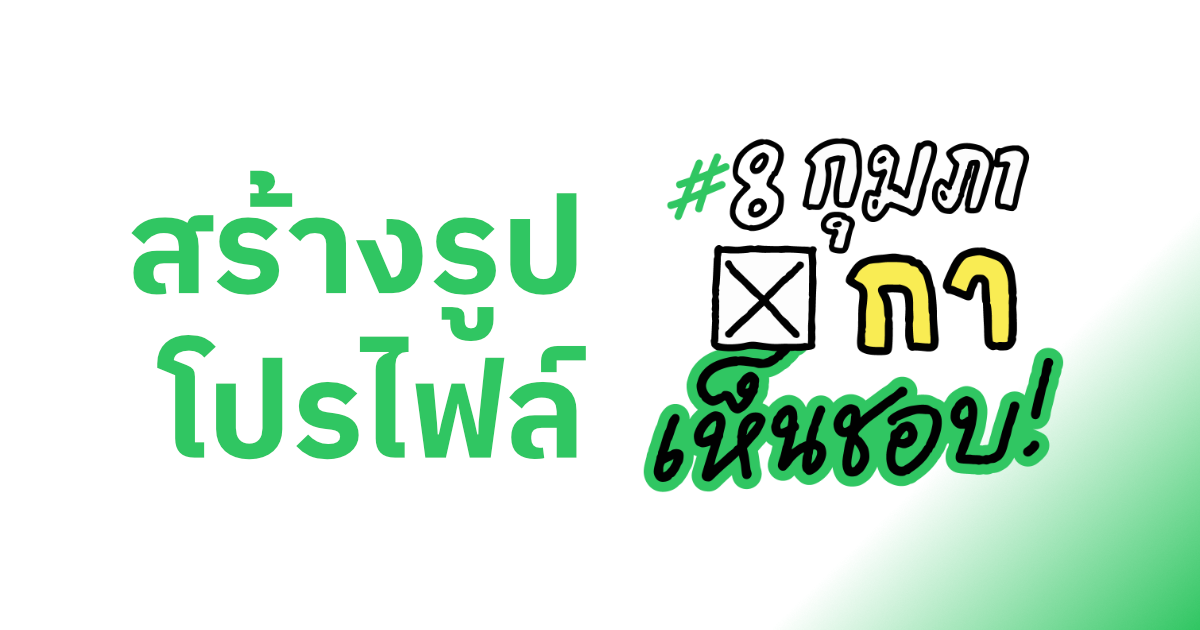
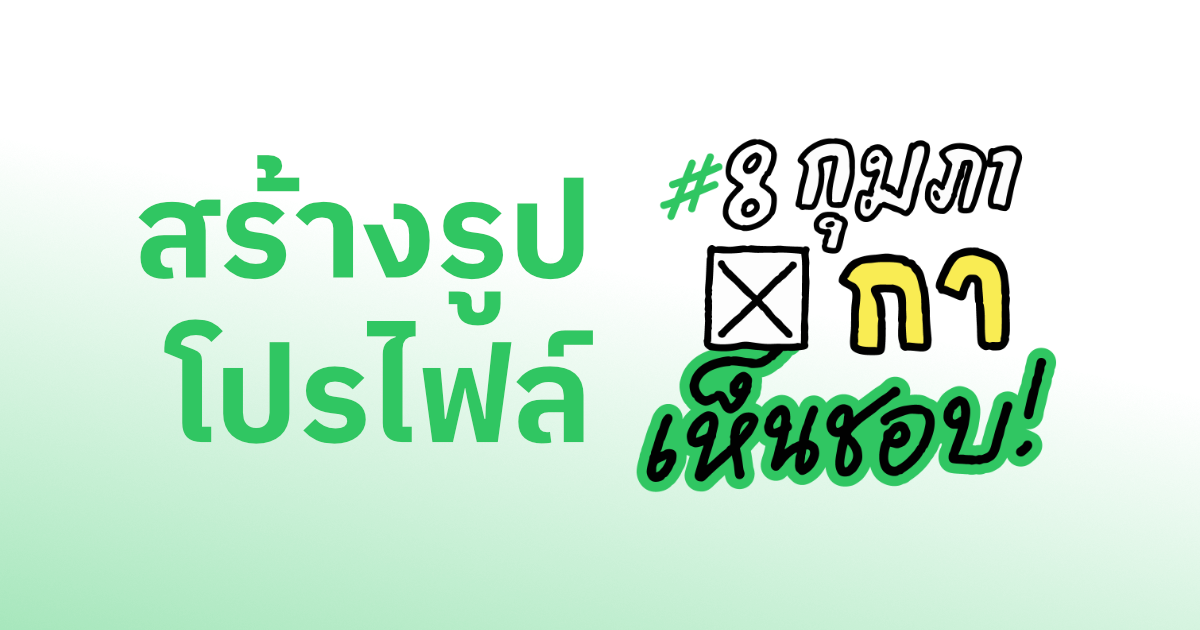
:beers:

diff --git a/index.html b/index.html
@@ -4,12 +4,17 @@
 <head>
     <meta charset="UTF-8">
     <meta name="viewport" content="width=device-width, initial-scale=1.0">
-    <meta property="og:title" content="สร้างรูปโปรไฟล์ #8กุมภากาเห็นชอบ">
+    <meta property="og:title" content="สร้างรูป #8กุมภากาเห็นชอบ">
     <meta property="og:image" content="img/og.png">
-    <title>สร้างรูปโปรไฟล์ #8กุมภากาเห็นชอบ</title>
+    <title>สร้างรูป #8กุมภากาเห็นชอบ</title>
     <link href="https://cdn.jsdelivr.net/npm/bootstrap@5.3.2/dist/css/bootstrap.min.css" rel="stylesheet">
     <script src="https://cdn.jsdelivr.net/npm/bootstrap@5.3.2/dist/js/bootstrap.bundle.min.js"></script>
     <style>
+        html,
+        body {
+            background: #dbf4e4;
+        }
+
         .canvas-container-wrapper {
             width: 100%;
             display: flex;
@@ -50,7 +55,7 @@
     <script src="https://cdnjs.cloudflare.com/ajax/libs/fabric.js/5.3.1/fabric.min.js"></script>
 </head>
 
-<body class="bg-light">
+<body>
 
     <div class="container py-5">
         <div class="row justify-content-center">
@@ -58,15 +63,18 @@
                 <h1 class="text-center mb-5 display-5 fw-bold">สร้างรูป #8กุมภากาเห็นชอบ</h1>
 
                 <!-- Step 1: Upload -->
-                <div class="card shadow-sm mb-4">
+                <div id="uploadSection" class="card shadow-sm mb-4 fade-transition">
                     <div class="card-header bg-white py-3">
-                        <h5 class="mb-0 fw-bold">1. อัปโหลดรูป</h5>
+                        <h5 class="mb-0 fw-bold">เลือกรูป</h5>
                     </div>
-                    <div class="card-body">
-                        <input type="file" id="fileInput" class="form-control form-control-lg" accept="image/*">
-                        <div class="form-text mt-2">รองรับไฟล์ JPG และ PNG, หากจะนำไปตั้งเป็นรูปโปรไฟล์
+                    <div class="card-body text-center">
+                        <input type="file" id="fileInput" class="d-none" accept="image/*">
+                        <label for="fileInput" class="btn btn-primary btn-lg px-5 fw-bold shadow-sm">
+                            เลือกรูป
+                        </label>
+                        <div class="form-text mt-4">รองรับไฟล์ JPG และ PNG, หากจะนำไปตั้งเป็นรูปโปรไฟล์
                             แนะนำให้ครอปสี่เหลี่ยมจัตุรัสมาก่อน</div>
-                        <p class="form-text mt-2">เพื่อความเป็นส่วนตัวถึงที่สุดของท่าน รูปที่ท่านเลือก
+                        <p class="form-text mt-2 mb-0">เพื่อความเป็นส่วนตัวถึงที่สุดของท่าน รูปที่ท่านเลือก
                             จะถูกประมวลผลในเครื่องของท่านเอง
                             ไม่มีการส่งรูปและ/หรือข้อมูลใดๆ ออกไปจากอุปกรณ์ของท่าน
                             และไม่มีการเก็บข้อมูลผู้เข้าเยี่ยมชมเว็บไซต์นี้ด้วยวิธีการใดก็ตาม</p>
@@ -80,7 +88,7 @@
                         <div>
                             <button id="clearStickersBtn"
                                 class="btn btn-outline-secondary btn-sm me-2">ล้างสติ๊กเกอร์</button>
-                            <button id="resetBtn" class="btn btn-outline-danger btn-sm">รีเซ็ต/เลือกรูปใหม่</button>
+                            <button id="resetBtn" class="btn btn-outline-danger btn-sm">เลือกรูปใหม่</button>
                         </div>
                     </div>
                     <div class="card-body">
@@ -98,15 +106,9 @@
                 </div>
 
                 <!-- Step 3: Export -->
-                <div id="exportSection" class="card shadow-sm mb-5 hidden fade-transition">
-                    <div class="card-header bg-white py-3">
-                        <h5 class="mb-0 fw-bold">3. บันทึกรูป</h5>
-                    </div>
-                    <div class="card-body text-center py-4">
-                        <button id="downloadBtn" class="btn btn-primary btn-lg px-5 fw-bold shadow-sm">
-                            กดปุ่มนี้เพื่อบันทึกรูป
-                        </button>
-                    </div>
+                <div id="exportSection" class="mb-5 hidden fade-transition text-center">
+                    <button id="downloadBtn" width="100%" class="btn btn-primary btn-lg px-5 fw-bold shadow-sm">
+                        กดปุ่มนี้เพื่อบันทึกรูป
                 </div>
                 <hr />
                 <p class="small">
@@ -122,7 +124,7 @@
         <div class="modal-dialog modal-dialog-centered modal-lg">
             <div class="modal-content">
                 <div class="modal-header">
-                    <h5 class="modal-title fw-bold" id="imageModalLabel">รูปโปรไฟล์ของท่านพร้อมแล้ว</h5>
+                    <h5 class="modal-title fw-bold" id="imageModalLabel">รูปของท่านพร้อมแล้ว</h5>
                     <button type="button" class="btn-close" data-bs-dismiss="modal" aria-label="Close"></button>
                 </div>
                 <div class="modal-body text-center">
@@ -155,6 +157,7 @@
 
             // DB Elements
             const fileInput = document.getElementById('fileInput');
+            const uploadSection = document.getElementById('uploadSection');
             const editorSection = document.getElementById('editorSection');
             const exportSection = document.getElementById('exportSection');
             const canvasWrapper = document.getElementById('canvas-wrapper');
@@ -162,7 +165,7 @@
             const resetBtn = document.getElementById('resetBtn');
             const clearStickersBtn = document.getElementById('clearStickersBtn');
             const downloadBtn = document.getElementById('downloadBtn');
-            
+
             // Modal Elements
             const imageModalElement = document.getElementById('imageModal');
             const bsModal = new bootstrap.Modal(imageModalElement);
@@ -182,7 +185,7 @@
             resetBtn.addEventListener('click', reset);
             clearStickersBtn.addEventListener('click', clearStickers);
             downloadBtn.addEventListener('click', download);
-            
+
             // Modal Listeners
             imageModalElement.addEventListener('hidden.bs.modal', closeModal);
 
@@ -207,6 +210,7 @@
 
             function toggleSections(show) {
                 if (show) {
+                    uploadSection.classList.add('hidden');
                     editorSection.classList.remove('hidden');
                     exportSection.classList.remove('hidden');
                     // Trigger reflow for transition if needed, though mostly visibility handling here
@@ -215,6 +219,7 @@
                         exportSection.style.opacity = '1';
                     });
                 } else {
+                    uploadSection.classList.remove('hidden');
                     editorSection.classList.add('hidden');
                     exportSection.classList.add('hidden');
                     editorSection.style.opacity = '0';
@@ -342,7 +347,7 @@
 
             function closeModal() {
                 // Clear memory/display when hidden
-                resultImage.src = ''; 
+                resultImage.src = '';
             }
 
             function reset() {
